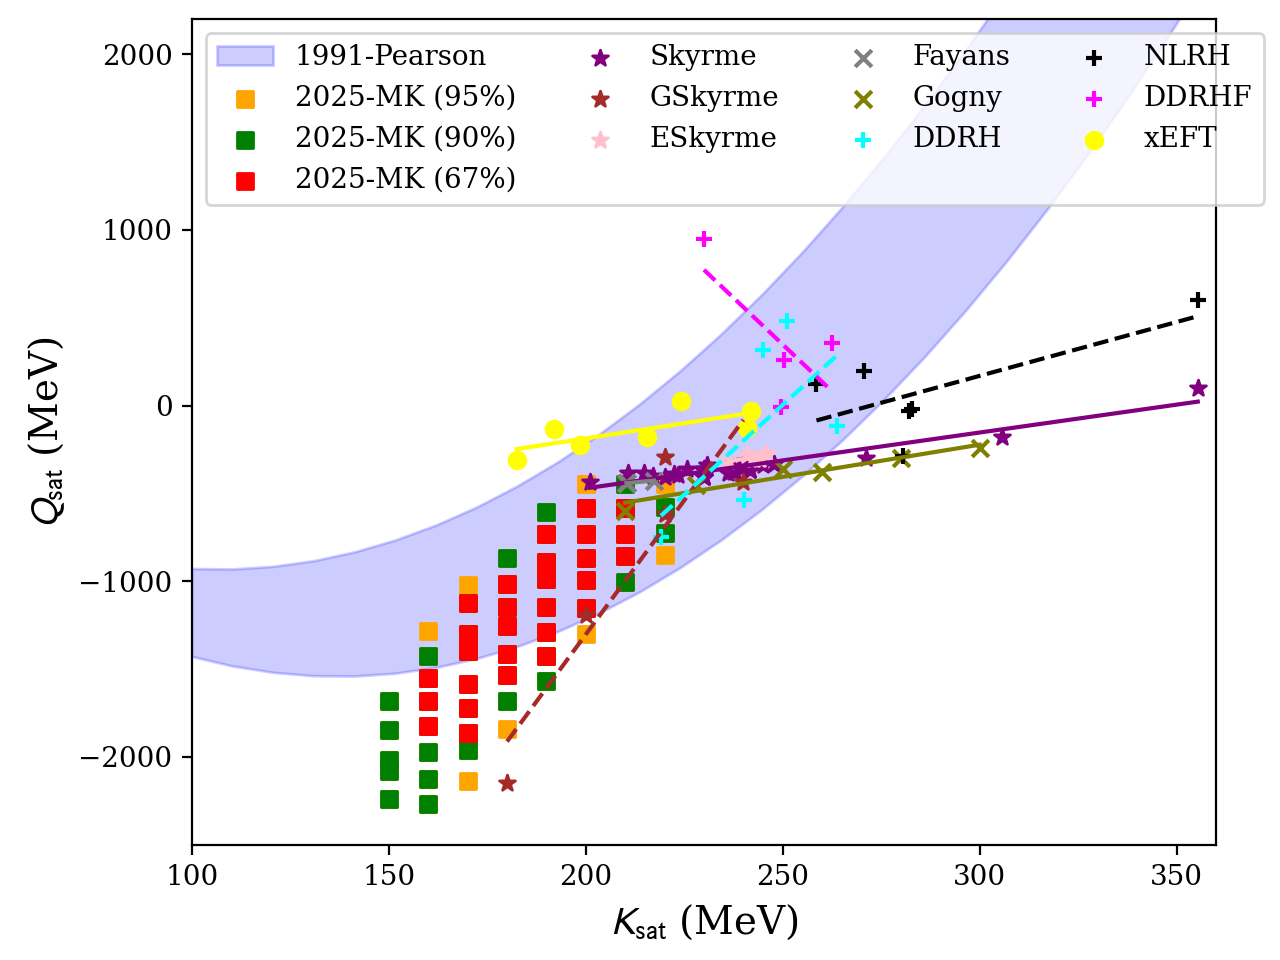
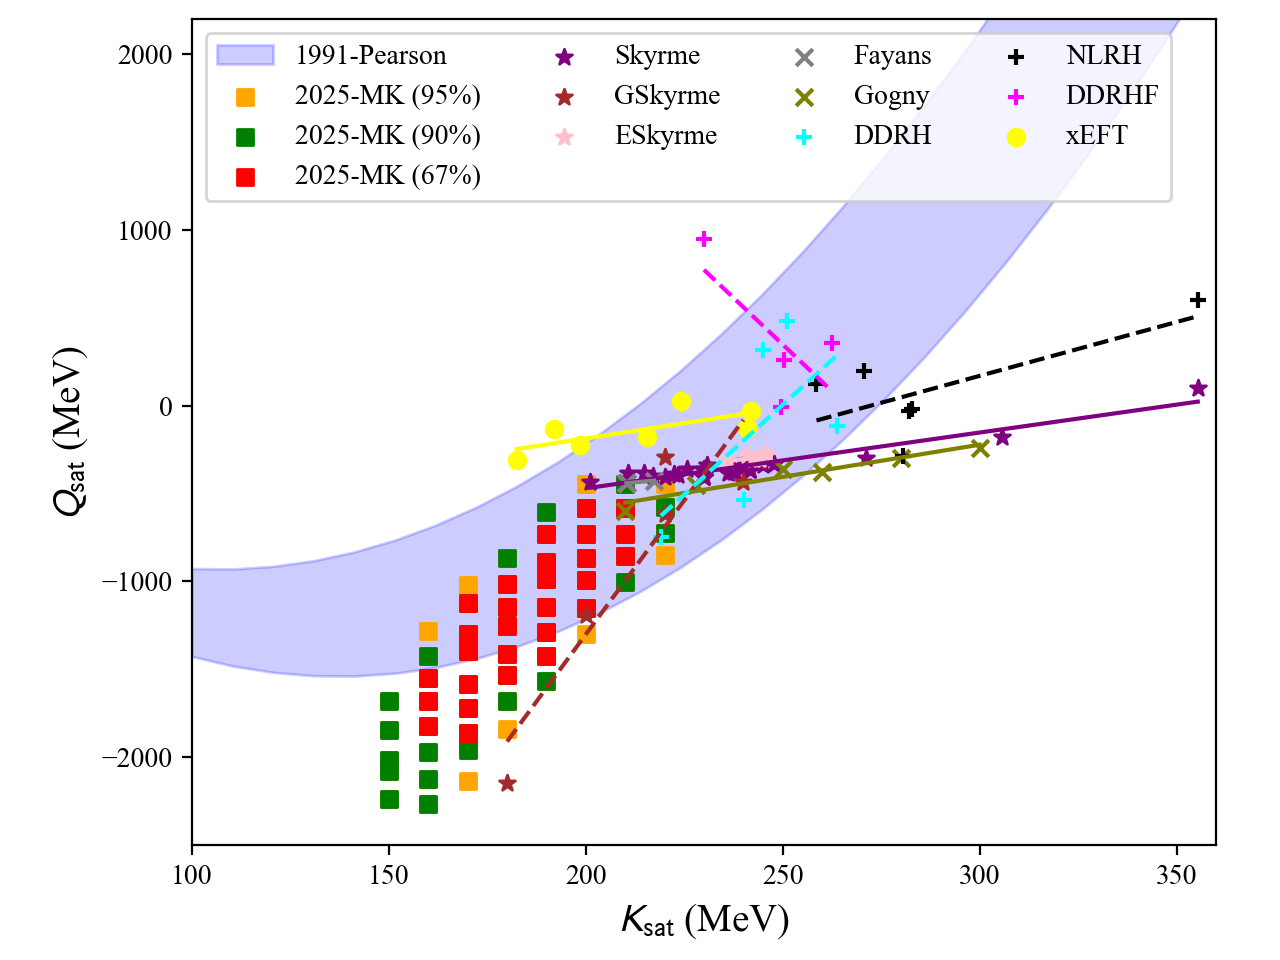
improve Ksat-Qsat correlation plot

diff --git a/version-1.0/nucleardatapy_samples/corr_setupKsatQsat_plot.py b/version-1.0/nucleardatapy_samples/corr_setupKsatQsat_plot.py
@@ -30,6 +30,33 @@ def main():
     pname = folder+'/plot_corr_setupKsatQsat.png'
     nuda.fig.corr_setupKsatQsat_fig( pname, constraints )
     #
+    constraints = [ 'EDF-SKY', 'EDF-ESKY', 'EDF-Gogny', 'EDF-Fayans' ]
+    pname = folder+'/plot_corr_setupKsatQsat-2.png'
+    nuda.fig.corr_setupKsatQsat_fig( pname, constraints )
+    #
+    constraints = [ 'EDF-SKY', 'EDF-ESKY', 'EDF-Gogny', 'EDF-Fayans', \
+               'EDF-DDRH', 'EDF-NLRH', 'EDF-DDRHF', 'EDF-xEFT' ]
+    pname = folder+'/plot_corr_setupKsatQsat-3.png'
+    nuda.fig.corr_setupKsatQsat_fig( pname, constraints )
+    #
+    constraints = [ 'EDF-SKY', 'EDF-ESKY', 'EDF-Gogny', 'EDF-Fayans', \
+               'EDF-DDRH', 'EDF-NLRH', 'EDF-DDRHF', 'EDF-xEFT', \
+               '1991-Pearson' ]
+    pname = folder+'/plot_corr_setupKsatQsat-4.png'
+    nuda.fig.corr_setupKsatQsat_fig( pname, constraints )
+    #
+    constraints = [ 'EDF-SKY', 'EDF-ESKY', 'EDF-Gogny', 'EDF-Fayans', \
+               'EDF-DDRH', 'EDF-NLRH', 'EDF-DDRHF', 'EDF-xEFT', \
+               '1991-Pearson', '2025-MK-95', '2025-MK-90', '2025-MK-67' ]
+    pname = folder+'/plot_corr_setupKsatQsat-5.png'
+    nuda.fig.corr_setupKsatQsat_fig( pname, constraints )
+    #
+    constraints = [ 'EDF-SKY', 'EDF-ESKY', 'EDF-Gogny', 'EDF-Fayans', \
+               'EDF-DDRH', 'EDF-NLRH', 'EDF-DDRHF', 'EDF-xEFT', \
+               '1991-Pearson', '2025-MK-95', '2025-MK-90', '2025-MK-67', 'EDF-GSKY' ]
+    pname = folder+'/plot_corr_setupKsatQsat-6.png'
+    nuda.fig.corr_setupKsatQsat_fig( pname, constraints )
+    #
     print(50*'-')
     print("Exit corr_setupKsatQsat_plot.py:")
     print(50*'-')
